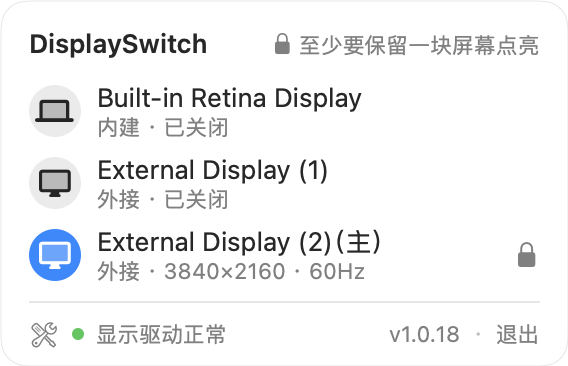
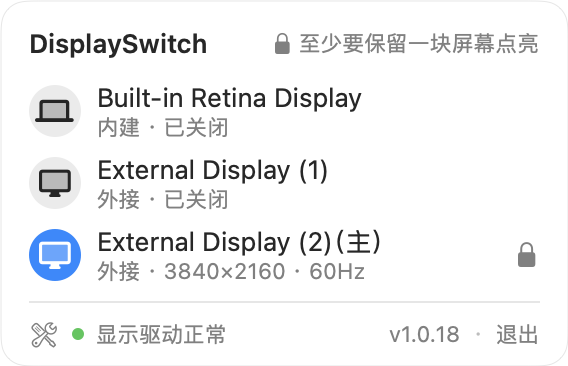
💄 候选版 1.0.18:提示区的锁与文字按中心对齐,整段与标题按中心对齐
- 锁与文字并排、按中心对齐(曾嵌在文字里,锁比汉字高 0.75pt)
- 标题行按中心对齐(曾按基线对齐,小一号的汉字比标题低 1.25pt)
- 实测锁与汉字、提示与标题的中心各只差 0.25pt;提示出现前后标题行不变高

Changed region(s): [[0.5088, 0.0902, 0.9577, 0.1503]]

diff --git a/Sources/DisplaySwitchUI/PanelView.swift b/Sources/DisplaySwitchUI/PanelView.swift
@@ -48,17 +48,17 @@ public struct PanelView: View {
     /// 他要换成软件名、不写中文。
     /// 字号、字重、颜色同 Wi-Fi 菜单的标题:13pt 半粗,控件文字色(实测最深处 (38, 38, 38),不是纯黑)。
     private var header: some View {
-        HStack(alignment: .firstTextBaseline, spacing: 8) {
+        // 提示与标题按看得见的中心对齐(同 Wi-Fi 菜单标题行右边的开关)。曾按基线对齐:小一号的汉字看上去比标题低 1.25pt。
+        HStack(alignment: .center, spacing: 8) {
             Text("DisplaySwitch")
                 .font(.system(size: 13, weight: .semibold))
                 .foregroundStyle(Color(nsColor: .controlTextColor))
             Spacer(minLength: 16)
             // 提示区(他的设计):平时空着,只剩最后一块亮着被锁住时写原因。与行里的锁同时、直接出现和消失,
             // 不淡入淡出——系统菜单里的内容变化都是直接到位的(见 `StatusIcon`)。
-            // 锁形图标嵌在文字里、随文字排版:单独摆一个图标会把这一行撑高 1pt,面板跟着跳(截图实测)。
             // 文字用系统菜单副标题的样式(11pt、`secondaryLabelColor`),与每行的说明行一致;
             // 锁用 SF Symbols 跟随文字的默认大小,与汉字同高(7.5×10.5pt 对 10pt)。曾用更浅的次要色、锁缩小一号,
-            // 锁比汉字小一圈,整句发虚(他指出要优化)。没有另加上下偏移:量下来锁中心只比汉字高 0.75pt。
+            // 锁比汉字小一圈,整句发虚(他指出要优化)。锁的排法见 `hintText`。
             ZStack(alignment: .trailing) {
                 Self.hintText(lockReasonText).hidden()          // 按会出现的那句预留宽度,提示出现时面板不变宽
                 if let hint = model.hint {
@@ -75,8 +75,15 @@ public struct PanelView: View {
         .padding(.bottom, 8)
     }
 
+    /// 锁与文字并排、按中心对齐(实测锁与汉字的中心只差 0.25pt)。曾把锁嵌在文字里随文字排版:
+    /// 符号按西文字母的高度排,汉字整体偏下,锁比汉字高出 0.75pt,他指出没对齐。
+    /// 系统的 `Label` 也能对齐,但图标与文字隔 10pt,像两样东西,没用。
+    /// 提示出现时标题行不变高:提示区里一直垫着同样排法的一句(见 `header`)。
     private static func hintText(_ hint: String) -> some View {
-        Text("\(Image(systemName: "lock.fill")) \(hint)")
+        HStack(alignment: .center, spacing: 3) {
+            Image(systemName: "lock.fill")
+            Text(hint)
+        }
     }
 
     private var unsupportedNotice: some View {
